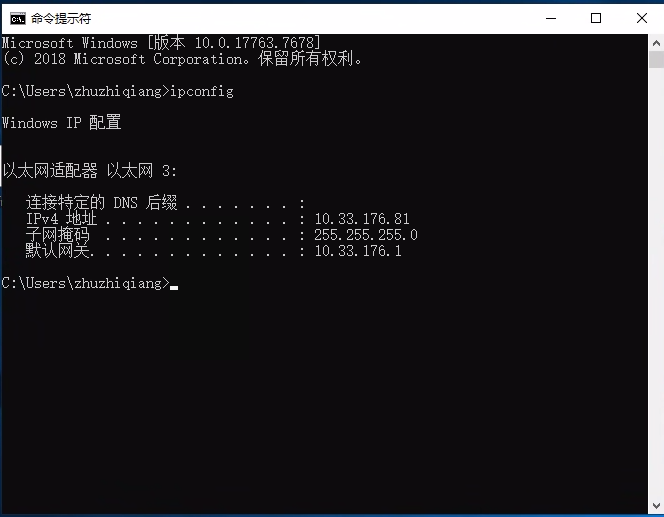
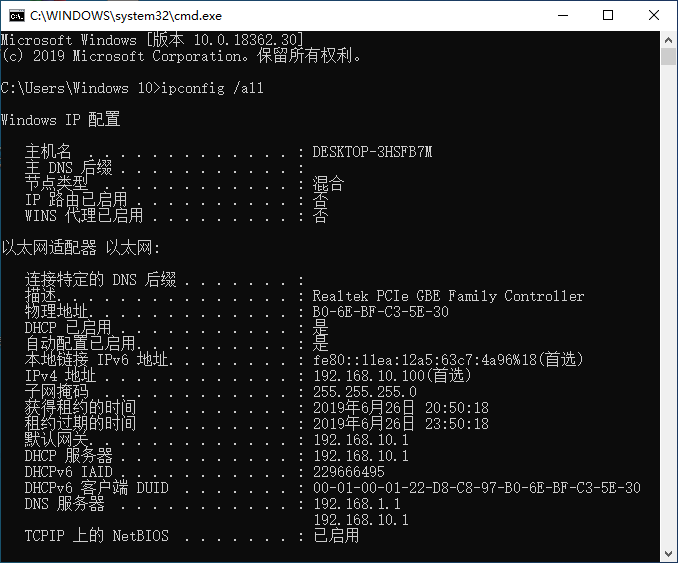
update ipconfig

diff --git a/docs/ch20_api/index.md b/docs/ch20_api/index.md
@@ -248,7 +248,9 @@ public class JavaPostExample {
 
    IP地址查询方法
 
-   按照桥通的设备 运行后 cmd  ipconfig
+   - 右键Windows, 选择"运行", 输入cmd, 回车打开命令窗口
+   - 输入ipconfig：查看网络配置
+   - 输入ipconfig /all：查看本机网络配置的详细信息
 
    ![](image/image_5xG1YJZ-A8.png)
 
